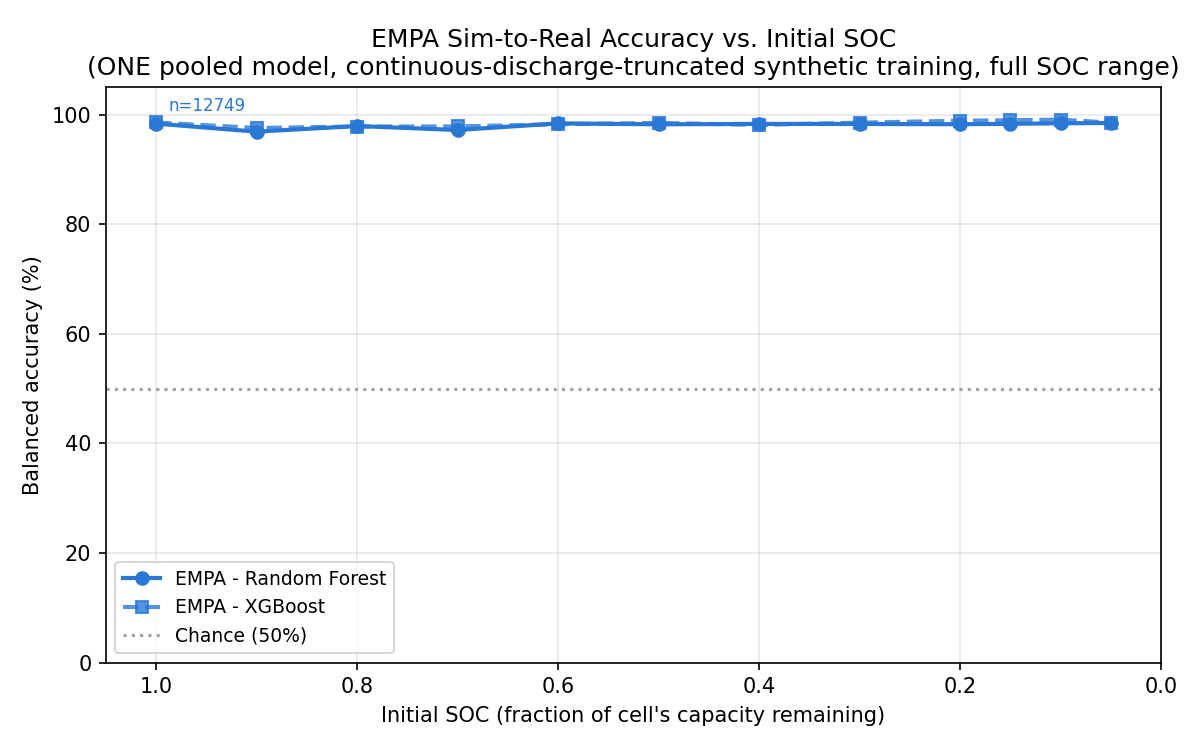
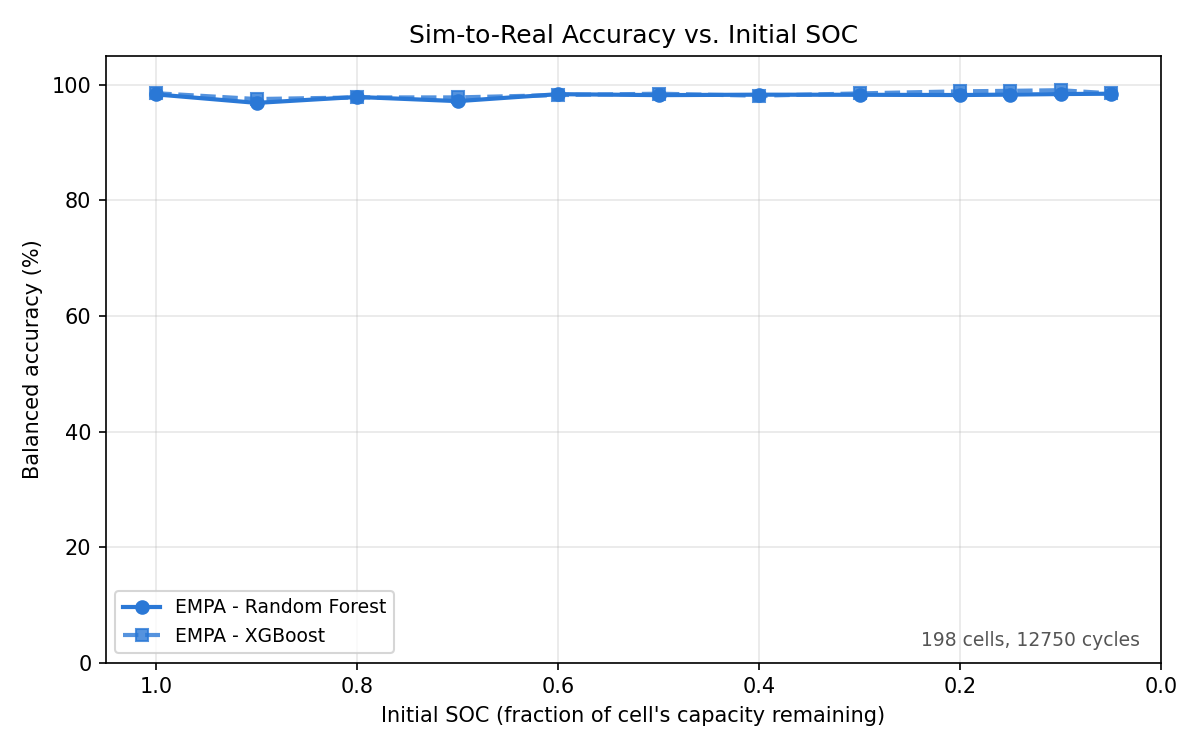
experiment 06: simplify plot title, drop chance legend, add cell/cycle count
Title is now just "Sim-to-Real Accuracy vs. Initial SOC" (no subtitle).
Removed the unlabeled chance-line legend entry. run_evaluation.py now
computes real EMPA cell/cycle counts from Variation_ID (which encodes
<cell>_cycle_<N>_soc_<X> -- stripped the SOC suffix first to avoid
counting each cycle's 12 SOC-truncated variants as separate cycles:
198 physical cells, 12,750 discharge cycles) and saves them into
sweep_results.json's meta key; make_plot.py displays them as an
in-plot annotation instead of a subtitle.

diff --git a/optimize_empa/experiment/06_pooled_model_full_soc_range/run_evaluation.py b/optimize_empa/experiment/06_pooled_model_full_soc_range/run_evaluation.py
@@ -94,9 +94,10 @@ def extract_features_with_kind():
 
     raw_df = pd.read_csv(RAW_CSV, low_memory=False)
     raw_df["Battery_ID"] = raw_df.groupby(GROUPBY_COLS).ngroup()
-    id_cols = raw_df.drop_duplicates("Battery_ID").set_index("Battery_ID")[["DataKind", "Initial_SOC"]]
+    id_cols = raw_df.drop_duplicates("Battery_ID").set_index("Battery_ID")[["DataKind", "Initial_SOC", "Variation_ID"]]
     features_df["DataKind"] = features_df["Battery_ID"].map(id_cols["DataKind"])
     features_df["Initial_SOC"] = features_df["Battery_ID"].map(id_cols["Initial_SOC"])
+    features_df["Variation_ID"] = features_df["Battery_ID"].map(id_cols["Variation_ID"])
 
     all_bin_cols = sorted(
         (c for c in features_df.columns if c.startswith("dV_dQ_V_")),
@@ -221,7 +222,17 @@ def main():
         except Exception as e:
             print(f"Note: Could not parse existing '{RESULTS_JSON}' ({e}). Rebuilding.")
 
-    existing_results["EMPA"] = {"buckets": bucket_results}
+    # Variation_ID encodes "<cell>_cycle_<N>_soc_<X>" -- strip the SOC
+    # suffix first to count unique physical discharge CYCLES (not
+    # cycle x SOC-point combos), then strip the cycle number too for
+    # unique physical CELLS.
+    real_all = features_df[features_df["DataKind"] == "real"]
+    cycle_ids = real_all["Variation_ID"].astype(str).str.split("_soc_").str[0]
+    n_cycles = int(cycle_ids.nunique())
+    n_cells = int(cycle_ids.str.split("_cycle_").str[0].nunique())
+    print(f"\nReal EMPA data used: {n_cells} physical cells, {n_cycles} discharge cycles.")
+
+    existing_results["EMPA"] = {"buckets": bucket_results, "meta": {"n_cells": n_cells, "n_cycles": n_cycles}}
     os.makedirs(os.path.dirname(RESULTS_JSON), exist_ok=True)
     with open(RESULTS_JSON, "w") as f:
         json.dump(existing_results, f, indent=2)

diff --git a/optimize_empa/experiment/06_pooled_model_full_soc_range/make_plot.py b/optimize_empa/experiment/06_pooled_model_full_soc_range/make_plot.py
@@ -31,6 +31,7 @@ def main():
         return
 
     buckets = results["EMPA"].get("buckets", {})
+    meta = results["EMPA"].get("meta", {})
     rf_y = [
         buckets[str(s)]["Random Forest"]["balanced_accuracy"] * 100
         if str(s) in buckets else None
@@ -49,17 +50,14 @@ def main():
     ax.plot(SOC_START_POINTS, xgb_y, color=EMPA_COLOR, linestyle="--", marker="s",
             linewidth=2, markersize=6, alpha=0.8, label="EMPA - XGBoost")
 
-    n_first = buckets.get("1.0", {}).get("Random Forest", {}).get("n")
-    if n_first and rf_y[0] is not None:
-        ax.annotate(f"n={n_first}", xy=(1.0, rf_y[0]), xytext=(6, 6),
-                    textcoords="offset points", fontsize=8, color=EMPA_COLOR)
-
-    ax.axhline(50, color="#9AA4AC", linestyle=":", linewidth=1.5, label="Chance (50%)")
+    if meta.get("n_cells") and meta.get("n_cycles"):
+        ax.text(0.98, 0.02, f"{meta['n_cells']} cells, {meta['n_cycles']} cycles",
+                transform=ax.transAxes, fontsize=9, color="#555555",
+                ha="right", va="bottom")
 
     ax.set_xlabel("Initial SOC (fraction of cell's capacity remaining)")
     ax.set_ylabel("Balanced accuracy (%)")
-    ax.set_title("EMPA Sim-to-Real Accuracy vs. Initial SOC\n"
-                 "(ONE pooled model, continuous-discharge-truncated synthetic training, full SOC range)")
+    ax.set_title("Sim-to-Real Accuracy vs. Initial SOC")
     ax.set_xlim(1.05, 0.0)  # Descending: full charge (left) -> near-empty (right)
     ax.set_ylim(0, 105)  # not clipped to a narrow high-accuracy band -- show the full picture either way
     ax.grid(True, alpha=0.3)
